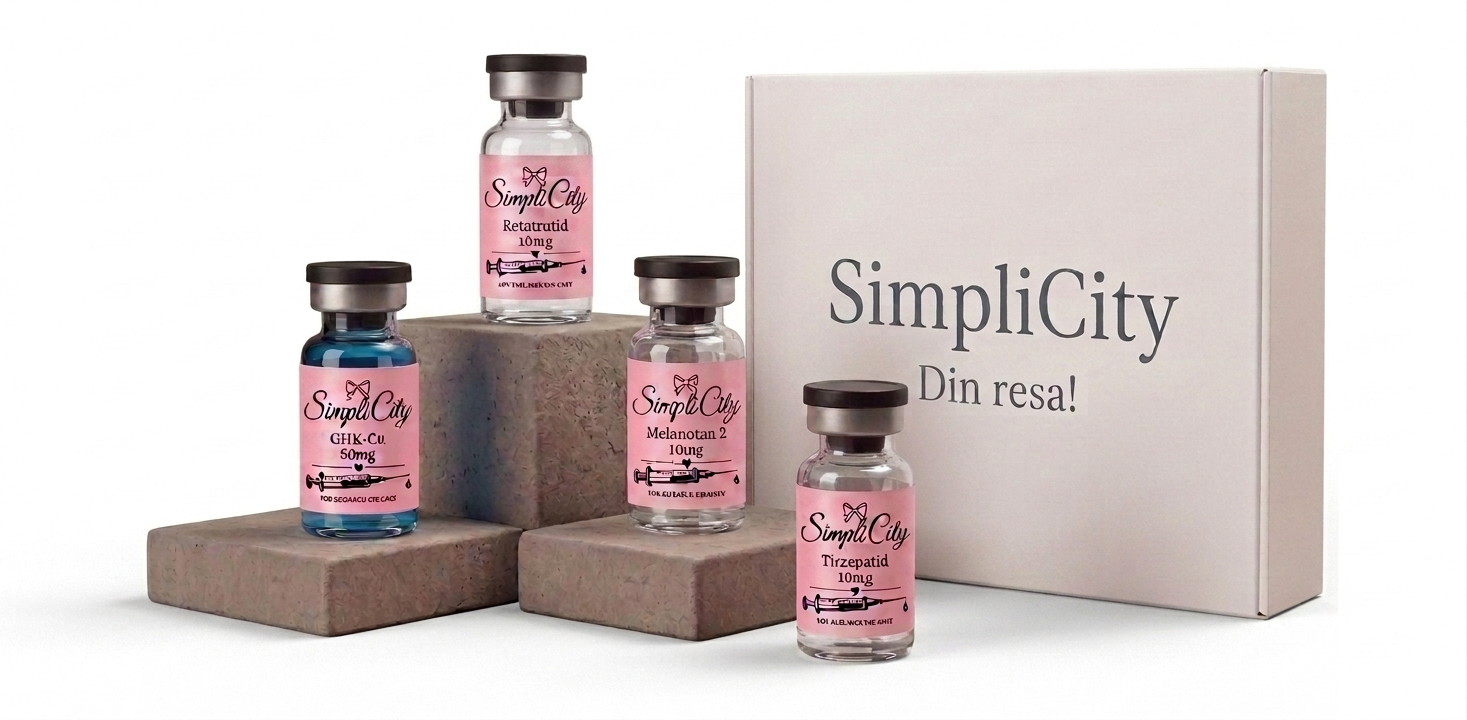
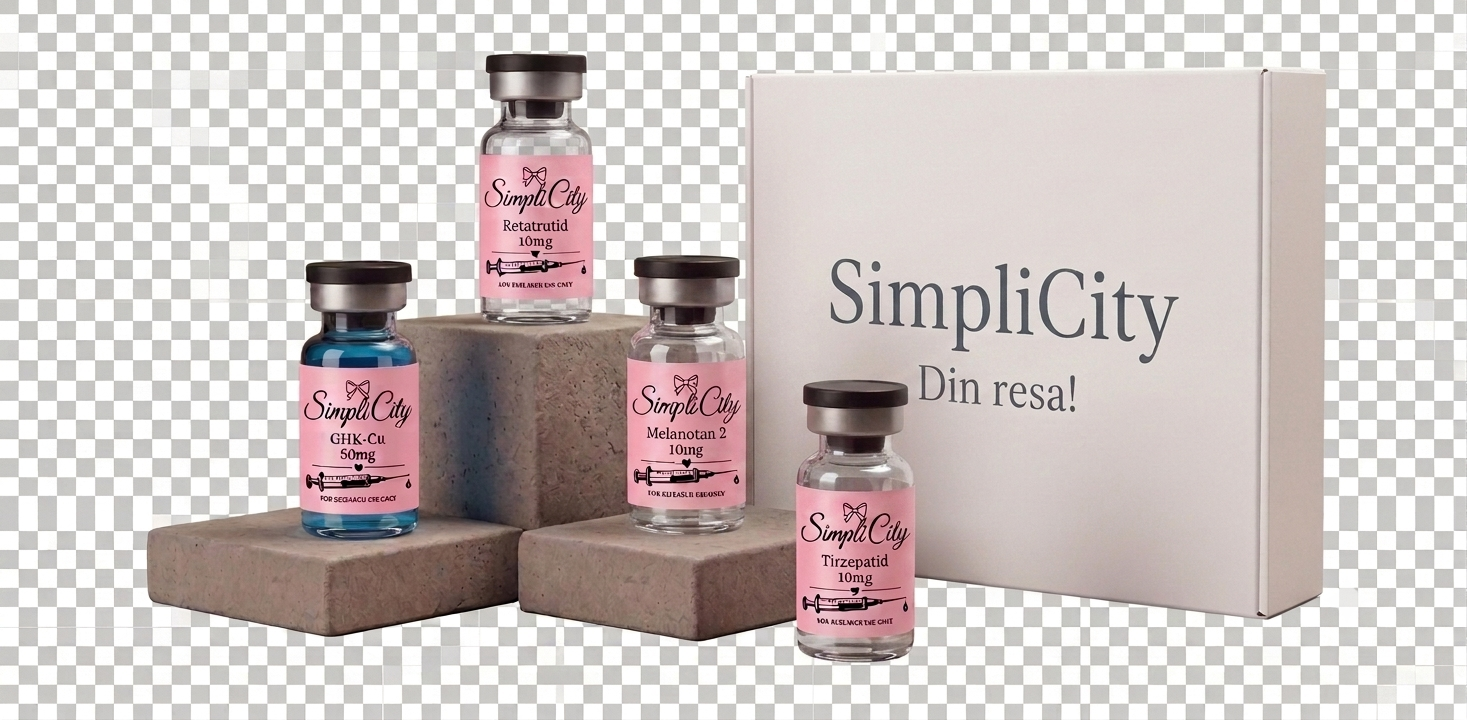
feat: applied dark espresso-rose ONDO lighting gradient to main page hero

diff --git a/src/components/Hero.tsx b/src/components/Hero.tsx
@@ -55,18 +55,8 @@ function HeroShowcase({ alt }: { alt: string }) {
   return (
     <div
       ref={sectionRef}
-      className="relative flex min-h-[320px] items-center justify-center [perspective:1400px] sm:min-h-[460px] lg:min-h-[620px]"
+      className="relative flex min-h-[320px] items-center justify-center bg-transparent [perspective:1400px] sm:min-h-[460px] lg:min-h-[620px]"
     >
-      {/* Soft pink radial glow behind product — no white card */}
-      <div
-        aria-hidden
-        className="pointer-events-none absolute left-1/2 top-1/2 h-[120%] w-[120%] -translate-x-1/2 -translate-y-1/2"
-        style={{
-          background:
-            "radial-gradient(circle, rgba(232,162,184,0.15) 0%, rgba(26,12,19,0) 70%)",
-        }}
-      />
-
       <motion.div
         style={{
           rotateY,
@@ -75,8 +65,9 @@ function HeroShowcase({ alt }: { alt: string }) {
           y: translateY,
           transformStyle: "preserve-3d",
         }}
-        className="relative z-10 w-full will-change-transform"
+        className="relative z-10 w-full bg-transparent will-change-transform"
       >
+        {/* Transparent containment only — no card, pad, radius, or fill */}
         <div className="relative aspect-[5/4] w-full bg-transparent">
           <Image
             src="/simplicity-hero-showcase.png"
@@ -84,7 +75,7 @@ function HeroShowcase({ alt }: { alt: string }) {
             fill
             priority
             sizes="(max-width: 1024px) 100vw, 54vw"
-            className="bg-transparent object-contain object-center drop-shadow-[0_40px_80px_rgba(0,0,0,0.45)]"
+            className="bg-transparent object-contain object-center drop-shadow-[0_36px_70px_rgba(0,0,0,0.55)]"
           />
         </div>
       </motion.div>
@@ -116,11 +107,25 @@ export default function Hero({ siteSettings }: HeroProps) {
 
   return (
     <section className="relative overflow-hidden bg-transparent">
+      {/* ONDO directional studio lighting — subtle espresso-rose undertone */}
+      <div
+        aria-hidden
+        className="pointer-events-none absolute inset-0"
+        style={{
+          background: `
+            radial-gradient(ellipse at 70% 30%, rgba(68, 48, 55, 0.45) 0%, rgba(22, 17, 20, 0.95) 70%),
+            linear-gradient(90deg, #120E10 0%, transparent 42%),
+            linear-gradient(180deg, transparent 55%, #0E0B0C 100%),
+            linear-gradient(270deg, #0E0B0C 0%, transparent 28%)
+          `,
+        }}
+      />
+
       <HeroThemeDecorations theme={campaignTheme} />
 
       <div className="relative z-10 mx-auto flex min-h-[min(88vh,920px)] max-w-7xl flex-col px-4 pb-16 pt-8 sm:px-6 sm:pb-20 sm:pt-10 lg:px-8 lg:pb-24 lg:pt-6">
         <div className="grid flex-1 items-center gap-10 lg:grid-cols-2 lg:gap-8 xl:gap-10">
-          {/* Left — ONDO-scale copy */}
+          {/* Left — text sits in deep shadow zone */}
           <div className="relative z-10 flex max-w-xl flex-col justify-center lg:max-w-none">
             <h1
               className={`${heroDisplay.className} text-6xl font-serif font-semibold tracking-tight text-white leading-[1.05] md:text-7xl lg:text-8xl`}
@@ -128,23 +133,23 @@ export default function Hero({ siteSettings }: HeroProps) {
               {headline}
             </h1>
 
-            <p className="mt-6 max-w-md text-base leading-relaxed text-[#F0C2D1] md:text-lg">
+            <p className="mt-6 max-w-md text-sm leading-relaxed text-[#E0D2D7] md:text-base">
               {bodyCopy}
             </p>
 
             <a
               href="#products"
-              className="mt-8 inline-flex items-center gap-3 rounded-md bg-[#FFF8FA] px-8 py-4 text-xs font-semibold uppercase tracking-widest text-[#2D1720] transition-all hover:bg-[#FCE8EF]"
+              className="mt-8 inline-flex w-fit items-center gap-3 rounded-full bg-[#F7F4EF] px-7 py-3.5 text-xs font-medium uppercase tracking-wider text-[#161114] transition-all hover:bg-white"
             >
               {ctaLabel}
               <span aria-hidden>→</span>
             </a>
 
-            {/* Trust badges — ONDO bottom bar in pink */}
-            <div className="mt-12 flex flex-wrap gap-8 border-t border-white/10 pt-12 text-xs uppercase tracking-widest text-[#E8A2B8]">
+            {/* Trust badges — ONDO line bar */}
+            <div className="mt-12 flex flex-wrap gap-8 border-t border-white/10 pt-6 text-xs uppercase tracking-widest text-[#C9B8BF]">
               {trustItems.map((item) => (
                 <div key={item.key} className="flex items-center gap-2.5">
-                  <span className="text-[#E8A2B8]" aria-hidden>
+                  <span className="text-[#C9B8BF]" aria-hidden>
                     {item.icon === "shield" ? (
                       <svg
                         className="h-4 w-4"
@@ -195,8 +200,8 @@ export default function Hero({ siteSettings }: HeroProps) {
             </div>
           </div>
 
-          {/* Right — full-bleed showcase, no card */}
-          <div className="relative z-10 lg:-mr-2 xl:-mr-4">
+          {/* Right — showcase in ambient spotlight, no wrapper card */}
+          <div className="relative z-10 bg-transparent lg:-mr-2 xl:-mr-4">
             <HeroShowcase alt={`${t.brand} product showcase`} />
           </div>
         </div>

diff --git a/src/components/Header.tsx b/src/components/Header.tsx
@@ -31,7 +31,7 @@ function NavLinkItem({
   label: string;
 }) {
   const className =
-    "text-[10px] font-medium uppercase tracking-[0.22em] text-[#F0C2D1]/85 transition-colors hover:text-white sm:text-[11px]";
+    "text-[10px] font-medium uppercase tracking-[0.22em] text-[#E0D2D7]/80 transition-colors hover:text-white sm:text-[11px]";
 
   if (isStandalonePage(href)) {
     return (
@@ -55,7 +55,7 @@ function BrandMark({ name }: { name: string }) {
       className="group flex flex-col items-center justify-center text-center"
       aria-label={name}
     >
-      <span className="mb-0.5 text-[#E8A2B8]" aria-hidden>
+      <span className="mb-0.5 text-[#C9B8BF]" aria-hidden>
         <svg
           viewBox="0 0 28 14"
           className="h-3 w-6"
@@ -113,7 +113,7 @@ export default function Header() {
             <button
               type="button"
               onClick={openCart}
-              className="relative flex h-9 w-9 items-center justify-center rounded-full text-[#F0C2D1] transition hover:bg-white/10 hover:text-white sm:h-10 sm:w-10"
+              className="relative flex h-9 w-9 items-center justify-center rounded-full text-[#E0D2D7] transition hover:bg-white/10 hover:text-white sm:h-10 sm:w-10"
               aria-label={t.cart.openCart}
             >
               <svg
@@ -131,7 +131,7 @@ export default function Header() {
                 />
               </svg>
               {cartItemCount > 0 && (
-                <span className="absolute -right-0.5 -top-0.5 flex h-4.5 min-w-4.5 items-center justify-center rounded-full bg-[#E8A2B8] px-1 text-[9px] font-bold text-[#2D1720]">
+                <span className="absolute -right-0.5 -top-0.5 flex h-4.5 min-w-4.5 items-center justify-center rounded-full bg-[#F7F4EF] px-1 text-[9px] font-bold text-[#161114]">
                   {cartItemCount > 99 ? "99+" : cartItemCount}
                 </span>
               )}

diff --git a/src/app/page.tsx b/src/app/page.tsx
@@ -13,8 +13,8 @@ export default async function Home() {
 
   return (
     <div className="min-h-full bg-white text-zinc-900">
-      {/* Full-bleed luxury dark pink canvas — header + hero share one backdrop */}
-      <div className="relative bg-gradient-to-b from-[#2D1720] via-[#24121A] to-[#1A0C13]">
+      {/* Full-bleed espresso-rose canvas — header + hero share ONDO lighting */}
+      <div className="relative bg-[#161114]">
         <Header />
         <Hero siteSettings={config.siteSettings} />
       </div>

diff --git a/src/components/LanguageSwitcher.tsx b/src/components/LanguageSwitcher.tsx
@@ -37,8 +37,8 @@ export default function LanguageSwitcher({
             className={`inline-flex items-center rounded-full px-2.5 py-1.5 text-[10px] font-semibold tracking-wide transition ${
               isDark
                 ? isActive
-                  ? "bg-[#FFF8FA] text-[#2D1720] shadow-sm"
-                  : "text-[#F0C2D1] hover:bg-white/10 hover:text-white"
+                  ? "bg-[#F7F4EF] text-[#161114] shadow-sm"
+                  : "text-[#E0D2D7] hover:bg-white/10 hover:text-white"
                 : isActive
                   ? "bg-stone-800 text-white shadow-sm"
                   : "text-stone-600 hover:bg-stone-200/70 hover:text-stone-900"